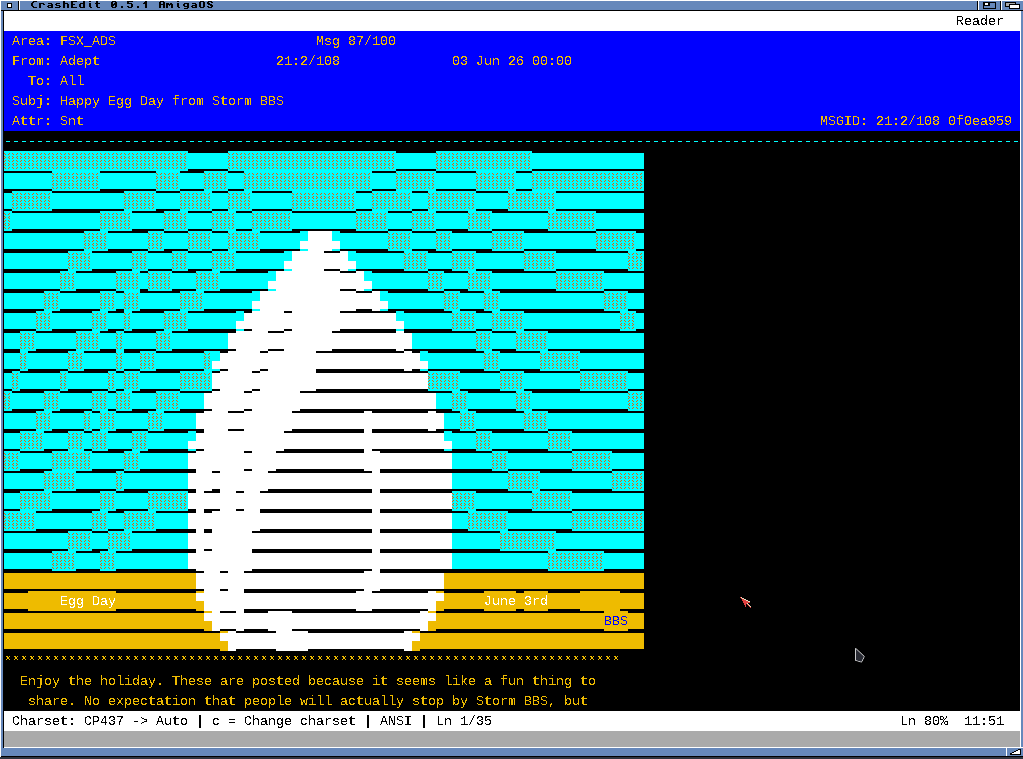
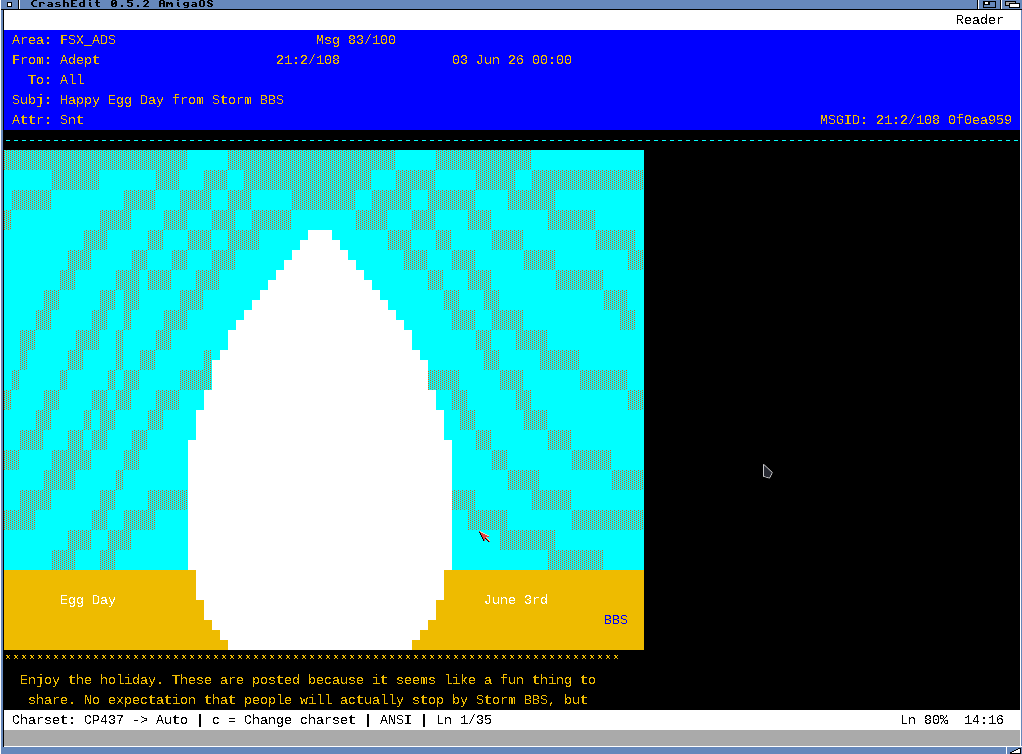
fix with ansi art in true type fonts for amiga

diff --git a/crashedit/ncursesw_amiga.c b/crashedit/ncursesw_amiga.c
@@ -91,6 +91,9 @@ static int s_ttf_size = 14;
 static int s_ttf_antialias = 0;    /* 0=auto, 1=off, 2=on */
 static int s_ttf_use_utf8 = 1;     /* 0=UTF-16 BE (BMP only), 1=UTF-8 (full Unicode) */
 static int s_ttf_proportional = 0; /* 1 = render per-cell (proportional font detected) */
+static int s_ansi_mode = 0;        /* 1 = app is in ANSI-art viewing mode; draw block glyphs
+                                    * (U+2580..U+259F) via RectFill instead of TT_Text for
+                                    * pixel-perfect tiling */
 
 static int s_cursor_vis = 1;
 static int s_colors_on = 0;
@@ -213,6 +216,173 @@ static void apply_colors(int pair, int attrs)
     SetDrMd(ami_rp, JAM2);
 }
 
+/* Direct block-glyph rendering (Unicode U+2580..U+259F).
+ *
+ * These 32 codepoints are precisely-defined geometric blocks/shades that
+ * are MEANT to tile seamlessly to form solid shapes (ANSI art). TTF fonts
+ * render them as actual glyphs, but the glyph height = ascender+descender
+ * may be smaller than our cell height (which includes accent room for
+ * Á, É, Ñ, etc.), leaving 1-2 px gaps between rows
+ *
+ * In ANSI viewing mode we bypass the font and draw these blocks ourselves
+ * with RectFill / SetAfPt so they tile pixel-perfect, matching what topaz
+ * does on the bitmap path. Bonus: faster than rasterizing through TTengine
+ */
+static int is_block_glyph(uint32_t cp)
+{
+    return (cp >= 0x2580 && cp <= 0x259F);
+}
+
+static void draw_block_glyph(uint32_t cp, int x, int y, int cw, int ch_, UBYTE fg)
+{
+    /* Standard Amiga area-fill patterns (16-pixel wide, 2-row repeating)
+     * We feed these to SetAfPt() so RectFill paints them */
+    static UWORD pat_25[2] = {0x8888, 0x2222}; /* ░ light shade  */
+    static UWORD pat_50[2] = {0x5555, 0xAAAA}; /* ▒ medium shade (checker) */
+    static UWORD pat_75[2] = {0x7777, 0xDDDD}; /* ▓ dark shade   */
+    UBYTE saved;
+
+    int xm = x + cw / 2;  /* horizontal middle */
+    int ym = y + ch_ / 2; /* vertical middle */
+    int x1 = x + cw - 1;  /* right edge */
+    int y1 = y + ch_ - 1; /* bottom edge */
+
+    if (!ami_rp || cw < 2 || ch_ < 2)
+        return;
+
+    saved = ami_rp->FgPen;
+
+    SetAPen(ami_rp, fg);
+
+    switch (cp)
+    {
+    /* Half blocks */
+    case 0x2580: /* ▀ UPPER HALF */
+        RectFill(ami_rp, x, y, x1, ym - 1);
+        break;
+    case 0x2584: /* ▄ LOWER HALF */
+        RectFill(ami_rp, x, ym, x1, y1);
+        break;
+    case 0x2588: /* █ FULL BLOCK */
+        RectFill(ami_rp, x, y, x1, y1);
+        break;
+    case 0x258C: /* ▌ LEFT HALF */
+        RectFill(ami_rp, x, y, xm - 1, y1);
+        break;
+    case 0x2590: /* ▐ RIGHT HALF */
+        RectFill(ami_rp, xm, y, x1, y1);
+        break;
+
+    /* Lower-N-eighths blocks (▁ ▂ ▃ ▅ ▆ ▇) */
+    case 0x2581:
+        RectFill(ami_rp, x, y + ch_ * 7 / 8, x1, y1);
+        break;
+    case 0x2582:
+        RectFill(ami_rp, x, y + ch_ * 6 / 8, x1, y1);
+        break;
+    case 0x2583:
+        RectFill(ami_rp, x, y + ch_ * 5 / 8, x1, y1);
+        break;
+    case 0x2585:
+        RectFill(ami_rp, x, y + ch_ * 3 / 8, x1, y1);
+        break;
+    case 0x2586:
+        RectFill(ami_rp, x, y + ch_ * 2 / 8, x1, y1);
+        break;
+    case 0x2587:
+        RectFill(ami_rp, x, y + ch_ * 1 / 8, x1, y1);
+        break;
+
+    /* Left-N-eighths blocks (▉ ▊ ▋ ▍ ▎ ▏) */
+    case 0x2589:
+        RectFill(ami_rp, x, y, x + cw * 7 / 8 - 1, y1);
+        break;
+    case 0x258A:
+        RectFill(ami_rp, x, y, x + cw * 6 / 8 - 1, y1);
+        break;
+    case 0x258B:
+        RectFill(ami_rp, x, y, x + cw * 5 / 8 - 1, y1);
+        break;
+    case 0x258D:
+        RectFill(ami_rp, x, y, x + cw * 3 / 8 - 1, y1);
+        break;
+    case 0x258E:
+        RectFill(ami_rp, x, y, x + cw * 2 / 8 - 1, y1);
+        break;
+    case 0x258F:
+        RectFill(ami_rp, x, y, x + cw / 8 - 1, y1);
+        break;
+
+    /* One-eighth top and right (▔ ▕) */
+    case 0x2594:
+        RectFill(ami_rp, x, y, x1, y + ch_ / 8 - 1);
+        break;
+    case 0x2595:
+        RectFill(ami_rp, x + cw * 7 / 8, y, x1, y1);
+        break;
+
+    /* Shaded blocks (░ ▒ ▓) — patterned fills */
+    case 0x2591:
+        SetAfPt(ami_rp, pat_25, 1);
+        RectFill(ami_rp, x, y, x1, y1);
+        SetAfPt(ami_rp, NULL, 0);
+        break;
+    case 0x2592:
+        SetAfPt(ami_rp, pat_50, 1);
+        RectFill(ami_rp, x, y, x1, y1);
+        SetAfPt(ami_rp, NULL, 0);
+        break;
+    case 0x2593:
+        SetAfPt(ami_rp, pat_75, 1);
+        RectFill(ami_rp, x, y, x1, y1);
+        SetAfPt(ami_rp, NULL, 0);
+        break;
+
+    /* Quadrants (▖ ▗ ▘ ▙ ▚ ▛ ▜ ▝ ▞ ▟) */
+    case 0x2596: /* ▖ lower left */
+        RectFill(ami_rp, x, ym, xm - 1, y1);
+        break;
+    case 0x2597: /* ▗ lower right */
+        RectFill(ami_rp, xm, ym, x1, y1);
+        break;
+    case 0x2598: /* ▘ upper left */
+        RectFill(ami_rp, x, y, xm - 1, ym - 1);
+        break;
+    case 0x2599: /* ▙ upper left + lower */
+        RectFill(ami_rp, x, y, xm - 1, ym - 1);
+        RectFill(ami_rp, x, ym, x1, y1);
+        break;
+    case 0x259A: /* ▚ upper left + lower right */
+        RectFill(ami_rp, x, y, xm - 1, ym - 1);
+        RectFill(ami_rp, xm, ym, x1, y1);
+        break;
+    case 0x259B: /* ▛ upper + lower left */
+        RectFill(ami_rp, x, y, x1, ym - 1);
+        RectFill(ami_rp, x, ym, xm - 1, y1);
+        break;
+    case 0x259C: /* ▜ upper + lower right */
+        RectFill(ami_rp, x, y, x1, ym - 1);
+        RectFill(ami_rp, xm, ym, x1, y1);
+        break;
+    case 0x259D: /* ▝ upper right */
+        RectFill(ami_rp, xm, y, x1, ym - 1);
+        break;
+    case 0x259E: /* ▞ upper right + lower left */
+        RectFill(ami_rp, xm, y, x1, ym - 1);
+        RectFill(ami_rp, x, ym, xm - 1, y1);
+        break;
+    case 0x259F: /* ▟ upper right + lower */
+        RectFill(ami_rp, xm, y, x1, ym - 1);
+        RectFill(ami_rp, x, ym, x1, y1);
+        break;
+
+    default:
+        break;
+    }
+
+    SetAPen(ami_rp, saved);
+}
+
 /* Render one cell to screen */
 static void render_cell(int row, int col, chtype ch, int attrs)
 {
@@ -243,7 +413,14 @@ static void render_cell(int row, int col, chtype ch, int attrs)
 
         if (wc >= 0x20)
         {
-            if (s_ttf_use_utf8)
+            /* ANSI mode + block glyph → draw directly with RectFill so the
+             * block tiles seamlessly to its neighbors. Outside ANSI mode (or
+             * for any non-block char), fall through to normal TT_Text path */
+            if (s_ansi_mode && is_block_glyph(wc))
+            {
+                draw_block_glyph(wc, x, y, fw, fh, saved);
+            }
+            else if (s_ttf_use_utf8)
             {
                 int utf8_len = utf32_to_utf8(wc, utf8_buf);
 
@@ -414,7 +591,9 @@ static void render_all()
 
             if (s_use_ttf)
             {
-                if (s_ttf_proportional)
+                /* Per-cell render is needed if the font is proportional or if
+                 * we are in ANSI mode */
+                if (s_ttf_proportional || s_ansi_mode)
                 {
                     int u;
                     for (u = 0; u < run_len; u++)
@@ -423,6 +602,7 @@ static void render_all()
                         uint32_t wc = (uint32_t)(cc->ch & 0xFFFFFFFF);
                         int cx = px(run_start + u);
                         UBYTE saved2;
+                        UBYTE fg_pen;
 
                         if (wc < 0x20)
                             wc = (uint32_t)' ';
@@ -431,9 +611,18 @@ static void render_all()
                          * from a wider neighbor glyph in the previous frame is
                          * erased before we render the current glyph */
                         saved2 = ami_rp->FgPen;
+                        fg_pen = saved2; /* current FgPen is the cell's foreground */
+
                         SetAPen(ami_rp, ami_rp->BgPen);
                         RectFill(ami_rp, cx, y, cx + fw - 1, y + fh - 1);
                         SetAPen(ami_rp, saved2);
+
+                        /* ANSI mode + block glyph: draw directly (no font) */
+                        if (s_ansi_mode && is_block_glyph(wc))
+                        {
+                            draw_block_glyph(wc, cx, y, fw, fh, fg_pen);
+                            continue;
+                        }
 
                         Move(ami_rp, cx, y + fb);
 
@@ -1886,7 +2075,11 @@ int amiga_change_font(int use_ansi)
 {
     struct TextFont *target_font;
 
-    /* In TTF mode the bitmap ANSI font isn't used; ignore the toggle */
+    /* Track ANSI mode regardless of font backend */
+    s_ansi_mode = use_ansi ? 1 : 0;
+    s_shadow_dirty = 1; /* force full redraw */
+
+    /* In TTF mode the bitmap ANSI font isn't used; nothing more to do */
     if (s_use_ttf)
         return 0;
 